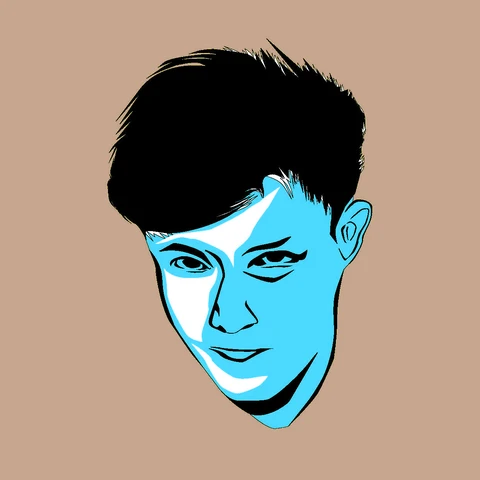
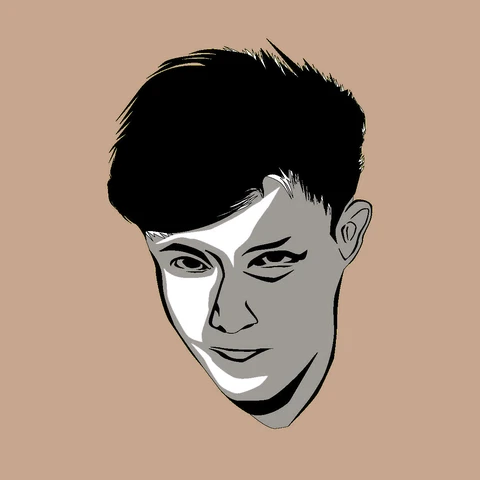
Portrait: change face from blue to warm grey
Claude-Session: https://claude.ai/code/session_01J4VhDFvWLGgRhB4GYdpMLD

Changed region(s): [[0.2812, 0.3438, 0.7812, 0.9062]]

diff --git a/Photo-Gallery-Aiman.md b/Photo-Gallery-Aiman.md
@@ -31,6 +31,7 @@ This file is the project's working record. Every change to the site is noted in 
 | Cream | `#EFEACA` | Page background |
 | Tan | `#C7A68F` | Lines and dividers, column lines (faint), photo placeholders, portrait background |
 | White | `#FFFFFF` | Hover details panel (slightly see-through) |
+| Warm grey | `#9E9A95` | Face colour in the round portrait |
 | Dark brown | `#463122` | Accent: active menu underline, focus outline |
 | Ink | `#2A2723` | Main text (unchanged) |
 | Ink soft | `#6C655C` | Secondary text (unchanged) |
@@ -178,6 +179,7 @@ Newest first.
 
 | Date | Change |
 |---|---|
+| 2026-10-30 | Portrait: the blue on the face is now a warm mid-grey (`#9E9A95`), including the soft edges into the black and white areas. |
 | 2026-10-30 | New colour palette from your template: cream `#EFEACA` background, tan `#C7A68F` lines and portrait background, white hover panel, dark brown `#463122` accent. Text colours unchanged. The yellow behind the portrait is now tan. |
 | 2026-10-30 | Made the round portrait much bigger: it now fills the right-hand column (about 410px on desktop), its top lines up with the top of "After", and portrait plus tagline together span the same height as the two-line "After / Hours" heading. On phones it's up to 200px wide, above the tagline. |
 | 2026-10-30 | Added your illustrated portrait in a circle on the right, above the tagline (`images/portrait.webp`). The illustration is centred on the head with an even yellow margin so the whole head fits inside the circle. It's 140px wide on large screens and scales down to 88px on phones. (Later enlarged; see the newer entry.) |
